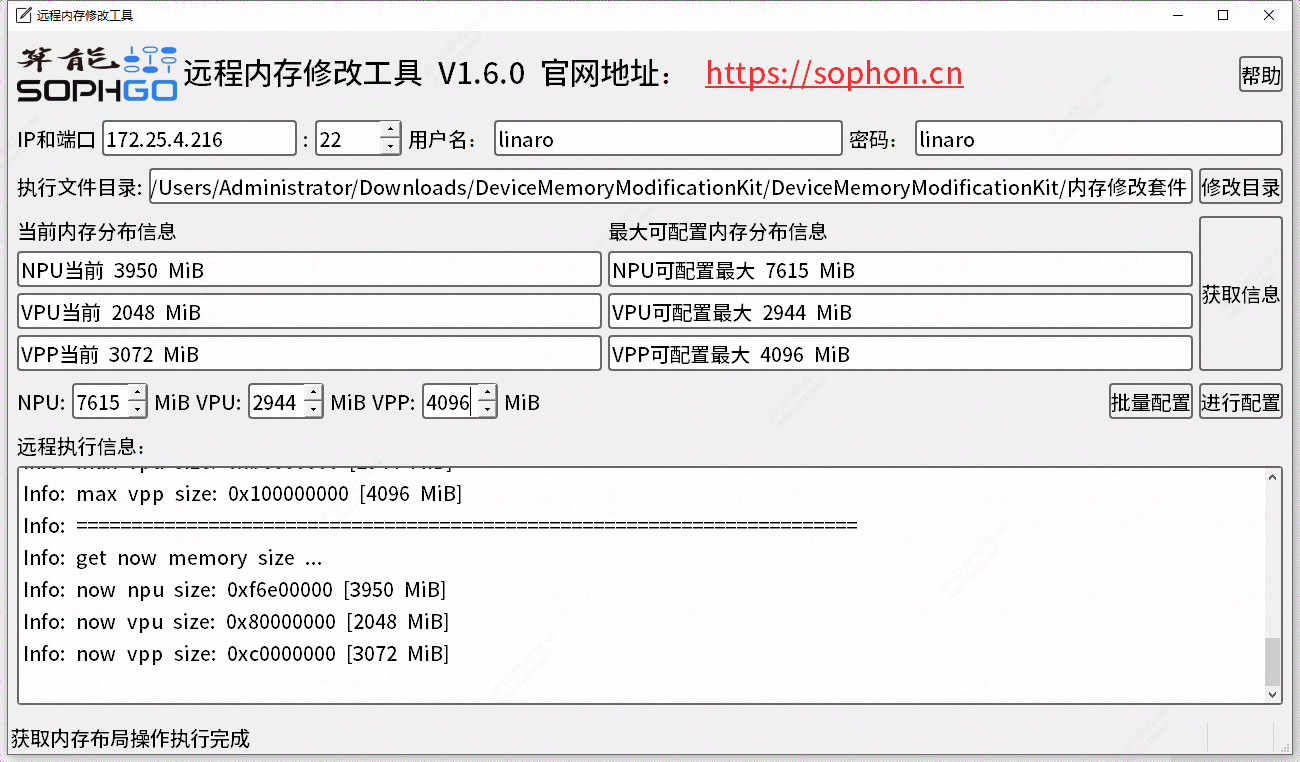
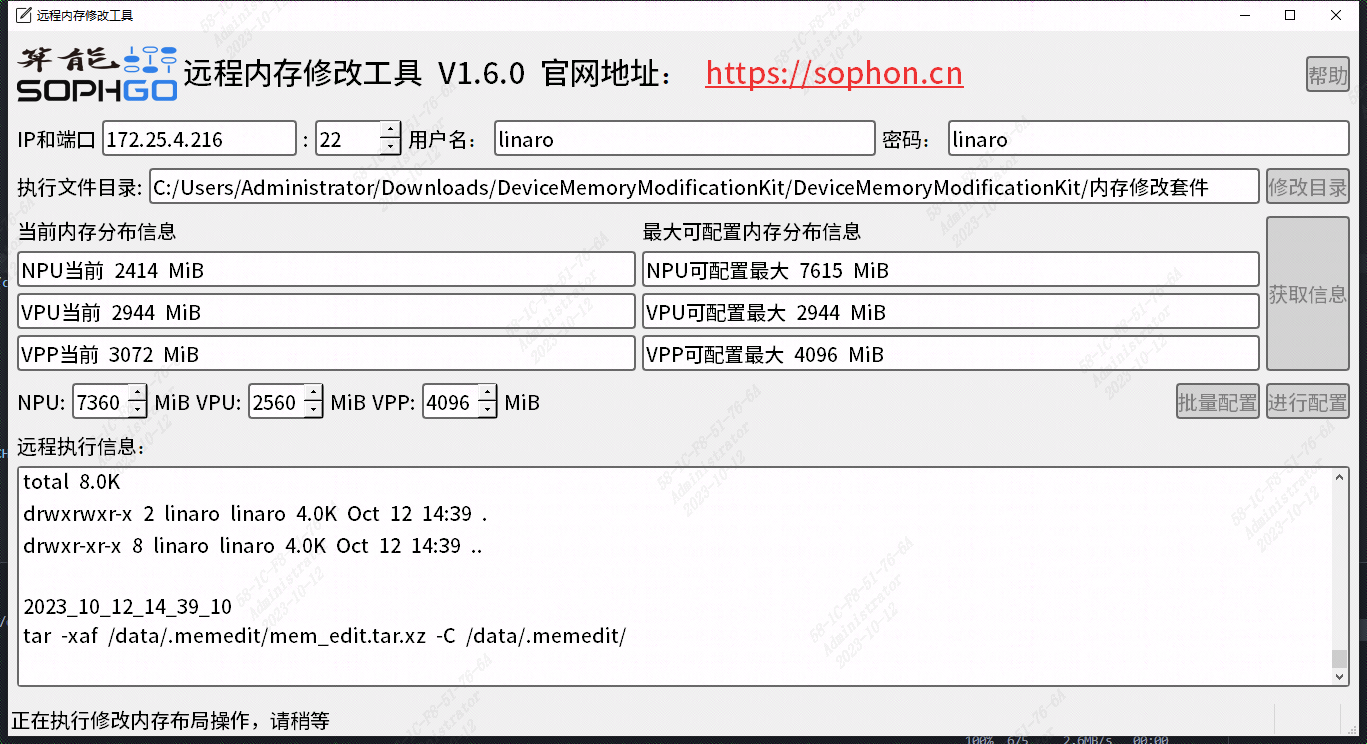
modify(chatglm2):modify some readme and bug
(cherry picked from commit 4b6a1cb6d65257b2cfa4cbd8f8d47772b74b11b0)

Changed region(s): [[0.0, 0.0, 1.0, 1.0], [0.4923, 0.5874, 0.5538, 0.6492]]

diff --git a/sample/chatglm2/python_web/web_chatglm2.py b/sample/chatglm2/python_web/web_chatglm2.py
@@ -13,7 +13,7 @@ class TokenWord(ctypes.Structure):
 
 class TPUChatglm:
     def __init__(self,args):
-        self.lib = ctypes.cdll.LoadLibrary('python_web/build/libChatGLM2.so')
+        self.lib = ctypes.cdll.LoadLibrary('build/libChatGLM2.so')
         self.device_id = args.dev_id
         self.bmodel_path = args.bmodel
         self.token_path = args.token

diff --git a/sample/chatglm2/cpp/README.md b/sample/chatglm2/cpp/README.md
@@ -9,11 +9,16 @@
     - [1.2 程序编译](#12-程序编译)
     - [1.3 参数说明](#13-参数说明)
     - [1.4 运行测试](#14-运行测试)
-  - [2 SoC平台 编译、运行](#2-soc平台-编译运行)
+  - [2 SoC平台 交叉编译、运行](#2-soc平台-交叉编译运行)
     - [2.1 环境配置](#21-环境配置)
     - [2.2 程序编译](#22-程序编译)
     - [2.3 程序参数说明](#23-程序参数说明)
     - [3.2 运行测试](#32-运行测试)
+  - [3 SoC平台 编译、运行](#3-soc平台-编译运行)
+    - [3.1 环境配置](#31-环境配置)
+    - [3.2 程序编译](#32-程序编译)
+    - [3.3 程序参数说明](#33-程序参数说明)
+    - [3.2 运行测试](#32-运行测试-1)
 
 
 ## 1. x86/arm PCIe平台 编译、运行
@@ -44,15 +49,13 @@ usage:./chatglm2.pcie [params]
         --help (value:0)
                 print help information.
 ```
-**注意：** CPP传参与python不同，需要用等于号，例如`./chatglm2.pcie --bmodel=xxx`。
-
 ### 1.4 运行测试
 ```bash
-./chatglm2.pcie --bmodel=../models/BM1684X/chatglm2-6b.bmodel --token=../models/BM1684X/tokenizer.model --dev_id=0
+./chatglm2.pcie --bmodel ../models/BM1684X/chatglm2-6b.bmodel --token ../models/BM1684X/tokenizer.model --dev_id 0
 ```
 
 
-## 2 SoC平台 编译、运行
+## 2 SoC平台 交叉编译、运行
 ### 2.1 环境配置
 如果您使用SoC平台（目前可支持SE7），刷机后在`/opt/sophon/`下已经预装了相应的libsophon运行库包，可直接使用它作为运行环境。通常还需要一台x86主机作为开发环境，用于交叉编译C++程序。
 
@@ -76,5 +79,28 @@ cd ..
 
 ### 3.2 运行测试
 ```bash
-./chatglm2.soc --bmodel=../models/BM1684X/chatglm2-6b.bmodel --token=../models/BM1684X/tokenizer.model --dev_id=0
+./chatglm2.soc --bmodel ../models/BM1684X/chatglm2-6b.bmodel --token ../models/BM1684X/tokenizer.model --dev_id 0
+```
+
+## 3 SoC平台 编译、运行
+### 3.1 环境配置
+如果您使用SoC平台（目前可支持SE7），刷机后在`/opt/sophon/`下已经预装了相应的libsophon运行库包，可直接使用它作为运行环境。如果将其作为开发环境，需要进入`/home/linaro/bsp-debs`路径下，安装开发包。
+```
+sudo dpkg -i sophon-soc-libsophon-dev_x.y.z_arm64.deb
+```
+### 3.2 程序编译
+本例程主要依赖libsophon运行库包,在SOC平台上安装好开发环境后，使用下面的命令编译生成可执行文件：
+```bash
+mkdir build && cd build
+cmake -DTARGET_ARCH=soc_base ..  
+make
+cd ..
+```
+编译完成后，会在cpp目录下生成chatglm2.soc。
+### 3.3 程序参数说明
+对于SoC平台，测试参数与PCIE是一致的。
+
+### 3.2 运行测试
+```bash
+./chatglm2.soc --bmodel ../models/BM1684X/chatglm2-6b.bmodel --token ../models/BM1684X/tokenizer.model --dev_id 0
 ```

diff --git a/sample/chatglm2/README.md b/sample/chatglm2/README.md
@@ -13,15 +13,15 @@
 ## 1. 简介
 ChatGLM2-6B 是开源中英双语对话模型 ChatGLM-6B 的第二代版本,相比于初代模型，具有更强大的性能，更长的上下文，更高的推理性能和更开放的协议，ChatGLM2-6B 权重对学术研究完全开放。
 
-该例程提供了三个版本,分别是C++、python、python_web版本，三个版本可以独立运行，支持在插有1684X系列加速卡的x86主机上运行，也可以SE7上运行。其中在SE7上运行需要额外进行环境配置，请参照[SE7下运行环境准备](#2-se7下运行环境准备)完成环境部署。
+该例程支持在SDK0301及以上的版本上运行，提供了三个版本,分别是C++、python、python_web版本，三个版本可以独立运行，支持在插有1684X系列加速卡的x86主机上运行，也可以SE7上运行。其中在SE7上运行需要额外进行环境配置，请参照[SE7下运行环境准备](#2-se7下运行环境准备)完成环境部署。
 
 ## 2. SE7下运行环境准备
 ### 2.1 方式一
 这是最推荐的方式，通过修改SE7的内存，使得满足chatGLM2运行条件。首先，下载根据[修改工具](https://doc.sophgo.com/sdk-docs/v23.07.01/docs_latest_release/docs/SophonSDK_doc/zh/html/appendix/2_mem_edit_tools.html)将SE7的内存修改为：
 
-NPU:7615 MiB
+NPU:7360 MiB
 
-VPU:2944 MiB 
+VPU:2560 MiB 
 
 VPP:4096 MiB
 
@@ -33,8 +33,7 @@ VPP:4096 MiB
 pip3 install dfss -i https://pypi.tuna.tsinghua.edu.cn/simple --upgrade
 python3 -m dfss --url=open@sophgo.com:sophon-demo/chatglm/sdcard_chatglm2.zip
 ```
-在完成刷机后，代码程序在`/data`目录下。当然，还是建议您使用sophon-demo下的程序,它是最新版本的。
-
+刷机方式可以参考[刷机问题](https://doc.sophgo.com/docs/3.0.0/docs_latest_release/faq/html/devices/SOC/soc_firmware_update.html?highlight=%E5%88%B7%E6%9C%BA),在完成刷机后，代码程序在`/data`目录下。当然，还是建议您使用sophon-demo下的程序,它是最新版本的。
 
 ## 3. 准备模型
 该模型目前只支持在1684X上运行，由于原始模型巨大，此示例暂不提供模型编译脚本，直接提供编译好的bmodel。如果需要进行模型编译，可以参考[sophgo
